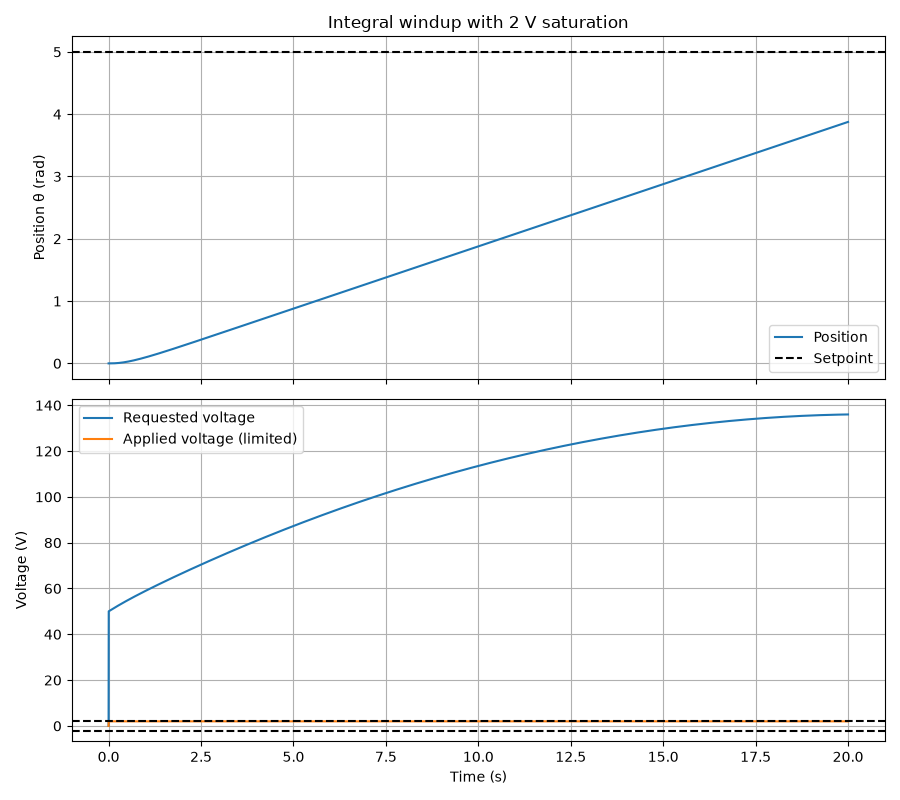
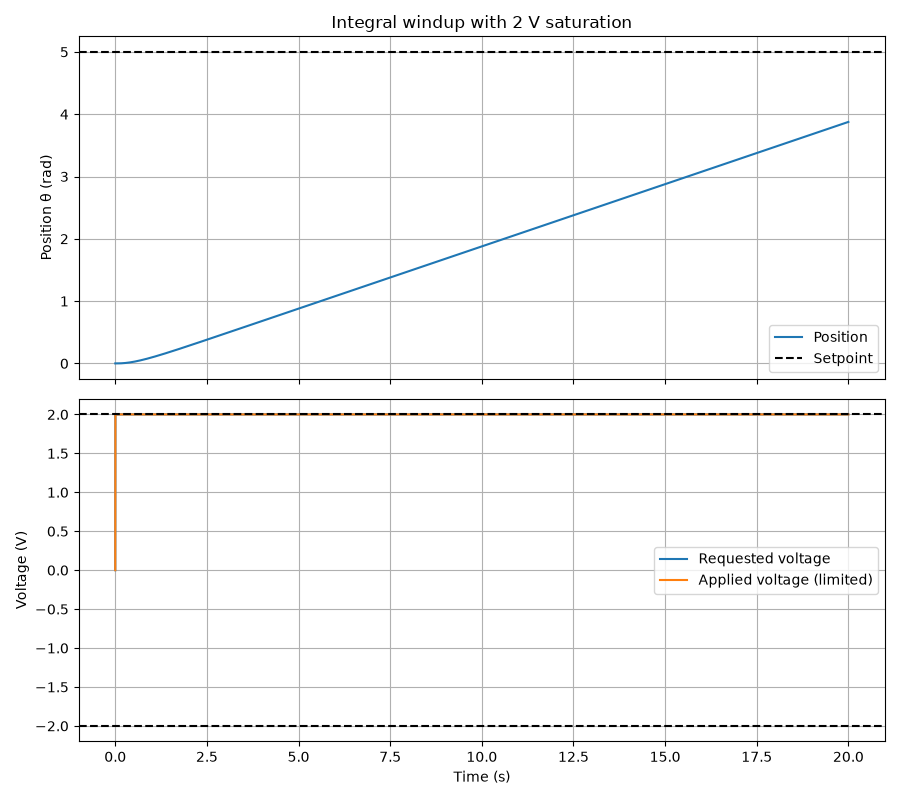
Stage 5: add PID anti-windup

diff --git a/python/pid.py b/python/pid.py
@@ -7,22 +7,52 @@ class PID:
         self.integral = 0.0
         self.prev_error = None
 
-    def update(self, setpoint, measurement, dt):
+    def update(self, setpoint, measurement, dt, output_limit=None):
         error = setpoint - measurement
-
-        self.integral = self.integral + error * dt
 
         if self.prev_error is None:
             derivative = 0.0
         else:
             derivative = (error - self.prev_error) / dt
 
-        self.prev_error = error
+        candidate_integral = self.integral + error * dt
 
-        output = (
+        unsaturated_output = (
             self.kp * error
-            + self.ki * self.integral
+            + self.ki * candidate_integral
             + self.kd * derivative
         )
+
+        if output_limit is None:
+            self.integral = candidate_integral
+            output = unsaturated_output
+
+        else:
+            output = max(
+                -output_limit,
+                min(output_limit, unsaturated_output),
+            )
+
+            saturated_high = output >= output_limit
+            saturated_low = output <= -output_limit
+
+            pushes_higher = saturated_high and error > 0
+            pushes_lower = saturated_low and error < 0
+
+            if not (pushes_higher or pushes_lower):
+                self.integral = candidate_integral
+
+                output = (
+                    self.kp * error
+                    + self.ki * self.integral
+                    + self.kd * derivative
+                )
+
+                output = max(
+                    -output_limit,
+                    min(output_limit, output),
+                )
+
+        self.prev_error = error
 
         return output

diff --git a/python/experiments/pid_windup.py b/python/experiments/pid_windup.py
@@ -25,14 +25,19 @@ requested_voltage = np.zeros(n)
 applied_voltage = np.zeros(n)
 
 for k in range(1, n):
-    requested_voltage[k] = pid.update(setpoint, motor.theta, dt)
+    requested_voltage[k] = pid.update(
+    setpoint,
+    motor.theta,
+    dt,
+    output_limit=voltage_limit,
+)
 
     applied_voltage[k] = max(
         -voltage_limit,
         min(voltage_limit, requested_voltage[k]),
     )
 
-    motor.step(requested_voltage[k], dt, voltage_limit=voltage_limit)
+    motor.step(requested_voltage[k], dt)
 
     t[k] = t[k - 1] + dt
     theta[k] = motor.theta

diff --git a/docs/05-saturation-windup.md b/docs/05-saturation-windup.md
@@ -12,3 +12,10 @@
 The controller requested about 50 V at the start and about 136 V by the end, but the motor received only +2 V because of saturation. The position was still below the 5 rad setpoint after 20 seconds.
 
 This is integral windup: the integral term continues accumulating positive error while the voltage limit prevents the motor from receiving the requested command. The stored integral action could cause overshoot once the motor reaches the setpoint.
+## Anti-windup result
+
+I added conditional integration to the PID controller. When the output reaches the voltage limit and the error would push it further into saturation, the integral term stops accumulating.
+
+With the same 5 rad setpoint and +/-2 V limit, both requested voltage and applied voltage remained at +2 V. The earlier requested voltage growth to about 136 V disappeared.
+
+The motor was still below the setpoint after 20 seconds because the actuator limit restricted physical acceleration, but the controller no longer stored an unrealistic integral command.
